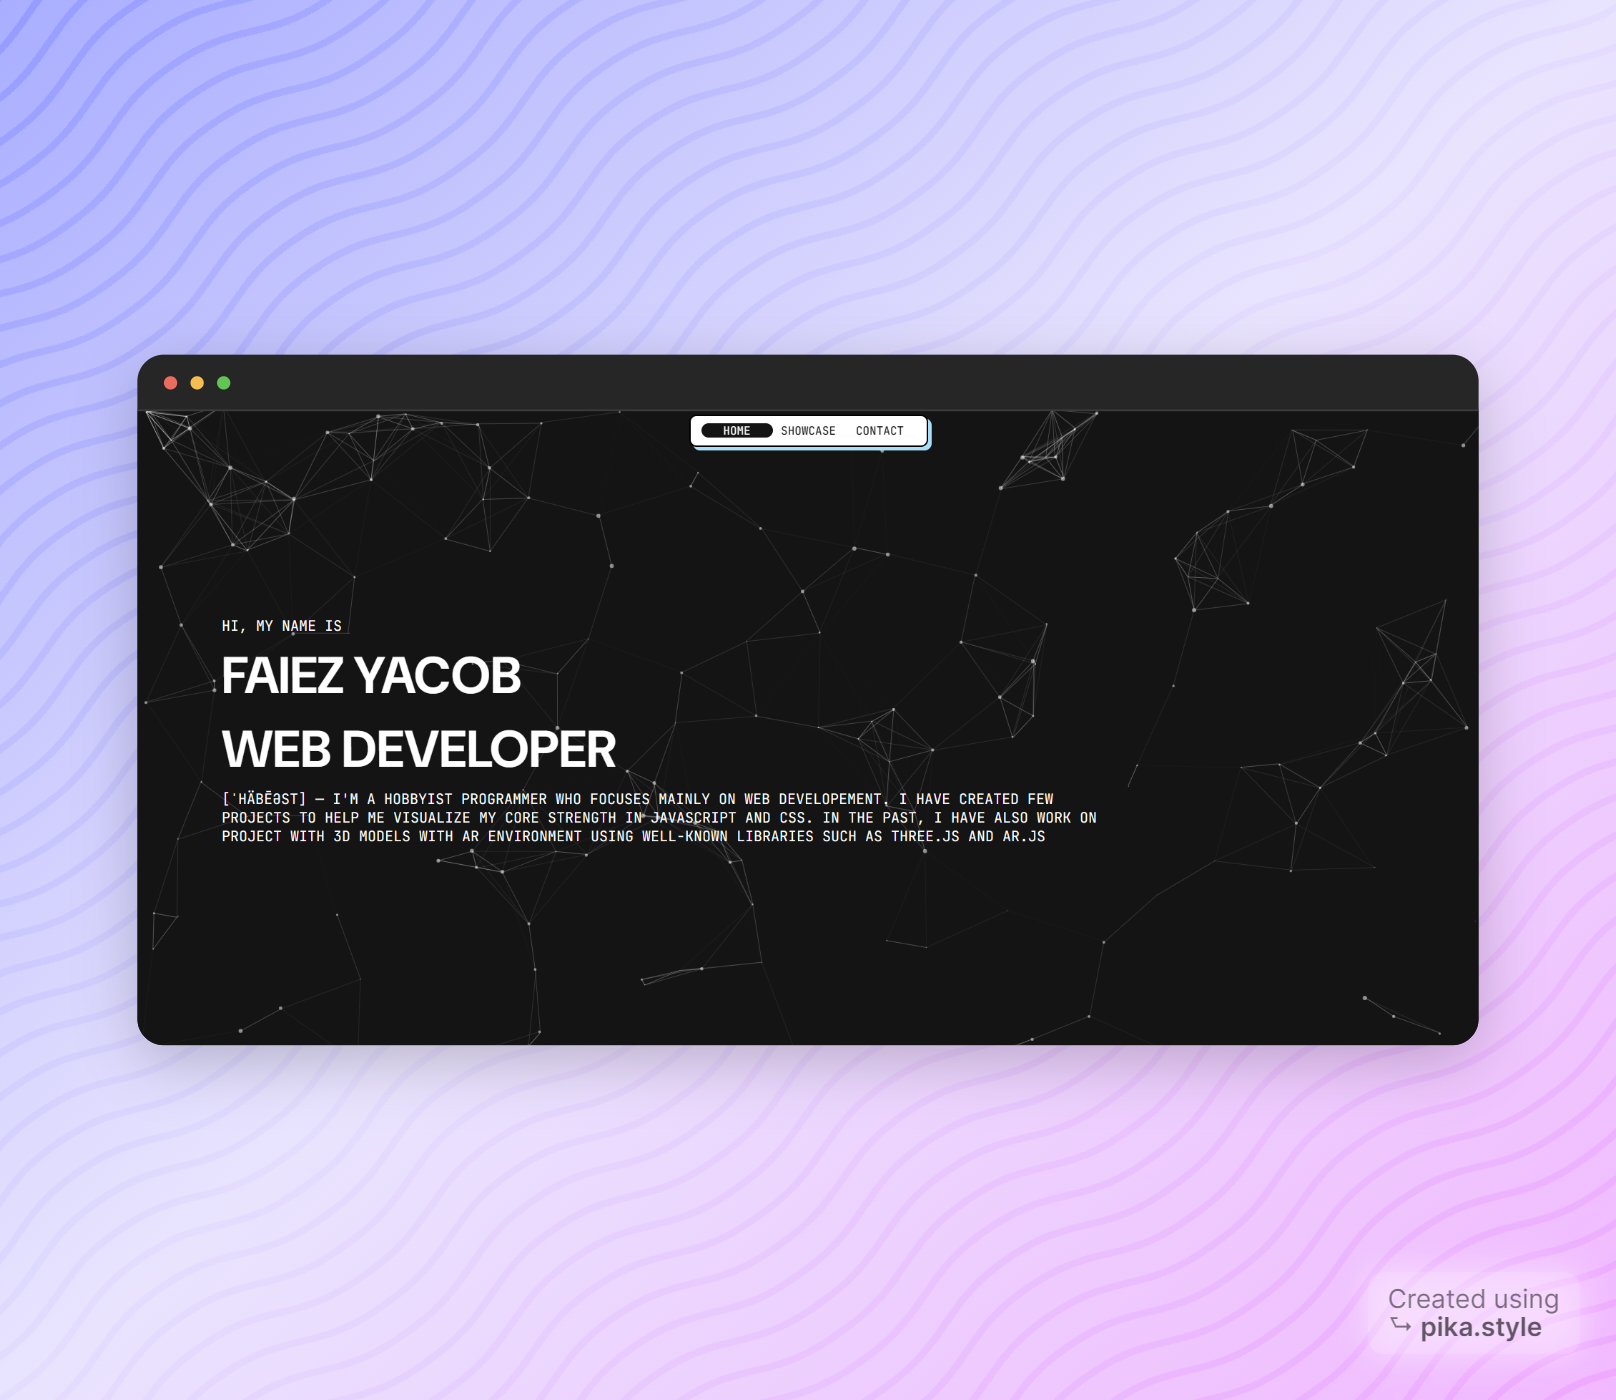
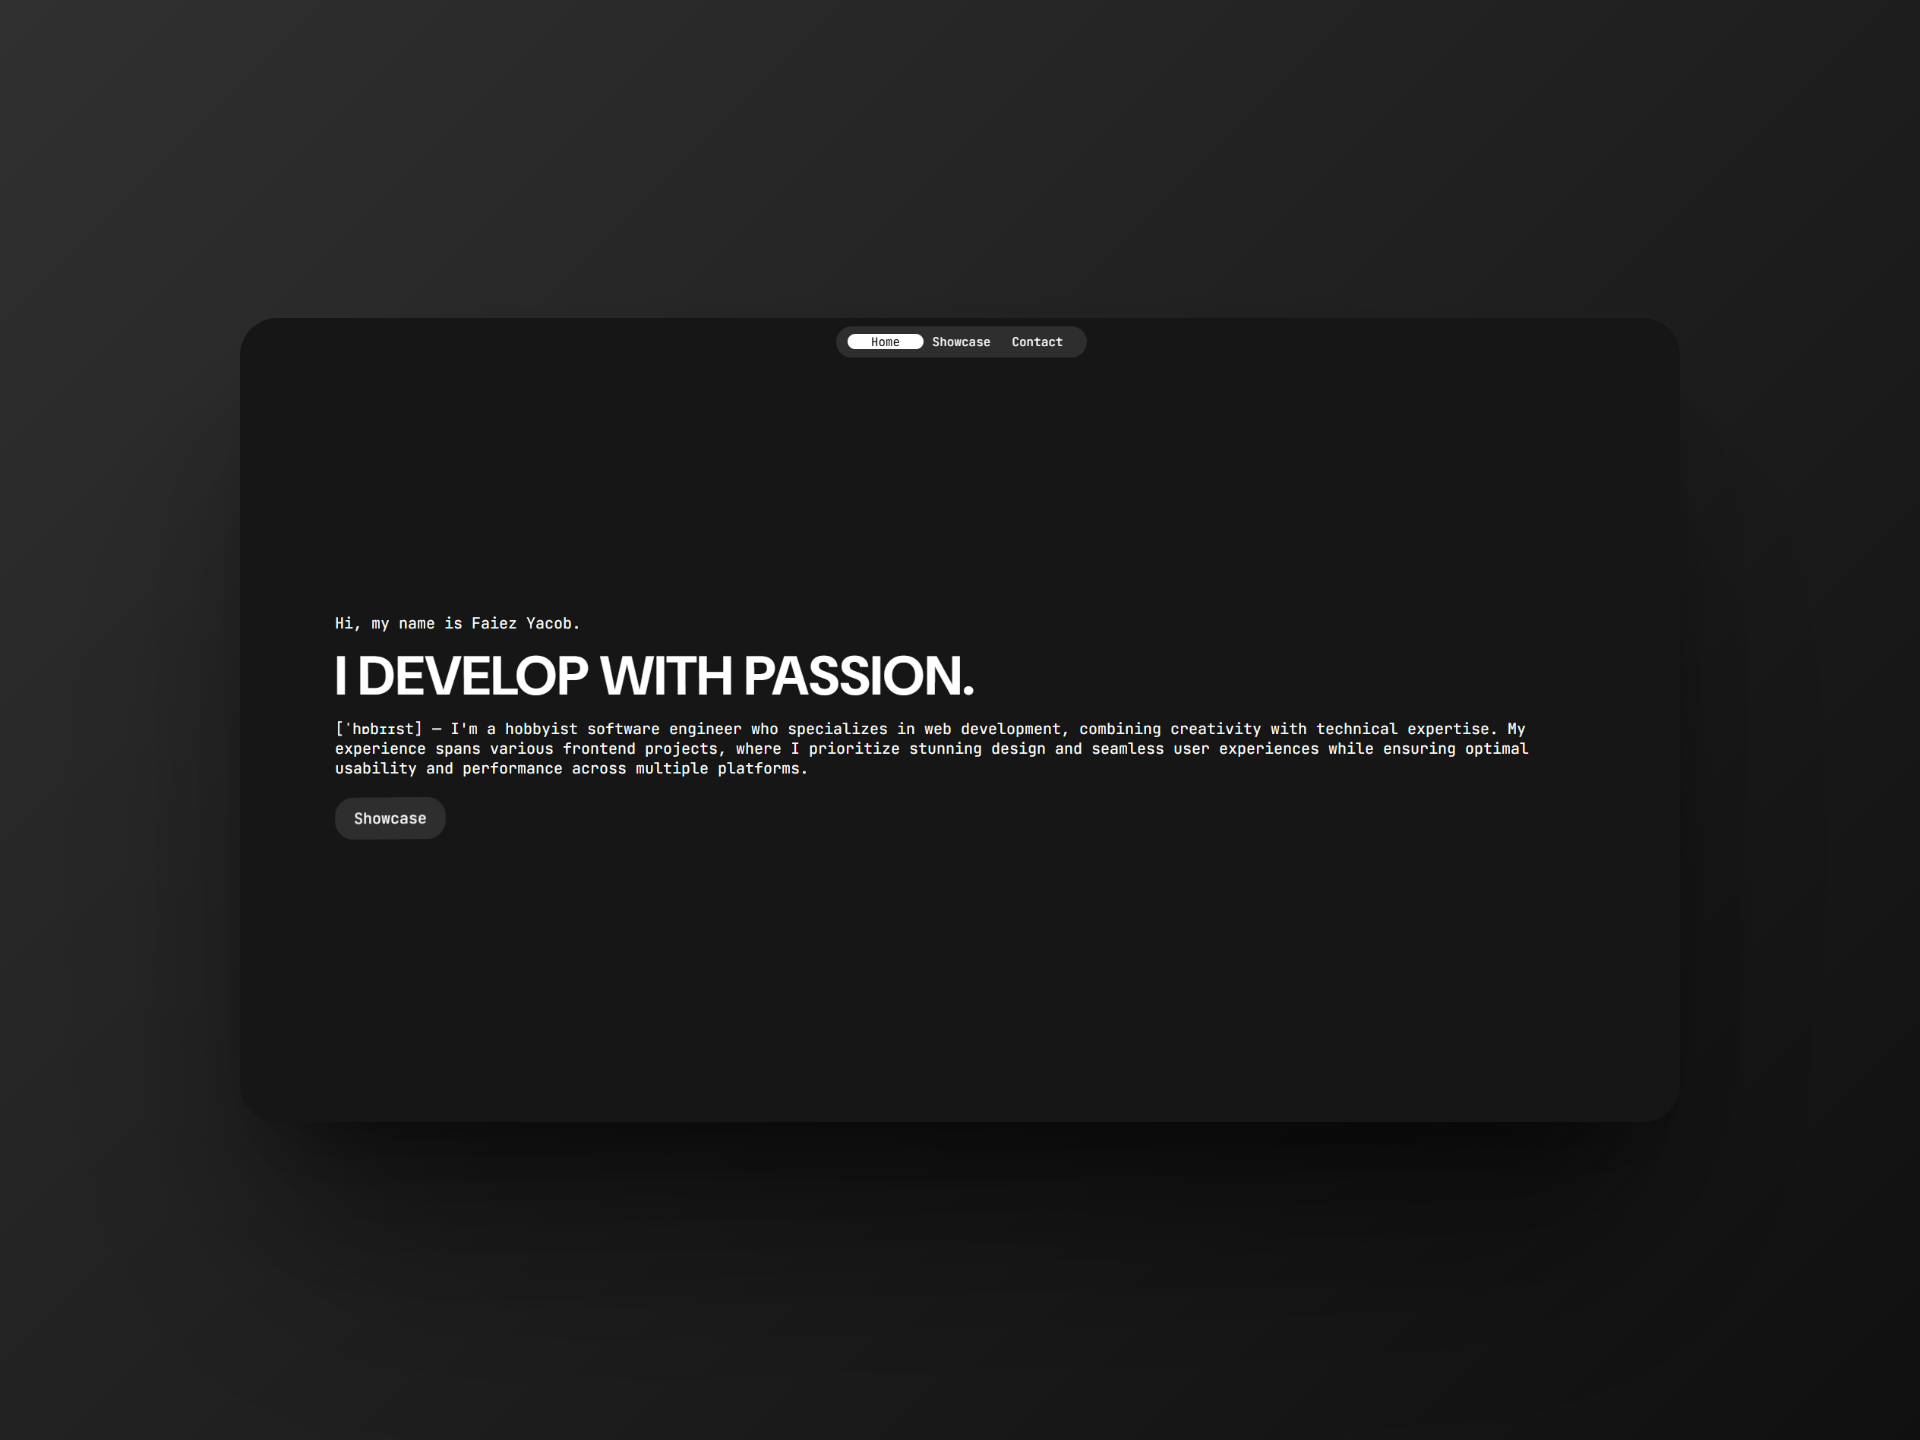
Update design to frosted glass

diff --git a/css/main.css b/css/main.css
@@ -2,14 +2,11 @@
 @import url('https://fonts.googleapis.com/css2?family=DM+Sans:ital,opsz,wght@0,9..40,100;0,9..40,200;0,9..40,300;0,9..40,400;0,9..40,500;0,9..40,600;0,9..40,700;0,9..40,800;0,9..40,900;0,9..40,1000;1,9..40,100;1,9..40,200;1,9..40,300;1,9..40,400;1,9..40,500;1,9..40,600;1,9..40,700;1,9..40,800;1,9..40,900;1,9..40,1000&family=Roboto:wght@400;500;700&display=swap');
 
 :root {
-    --pastel__purple: #DFCEF0;
-    --blue__pastel: #A9DEF9;
-    --dark__color: #404040;
-    --darker__color: #141414;
-    --primary__color: var(--darker__color);
-    
-    --border__radius: 10px;
-    --box__shadow: 5px 5px 0 var(--blue__pastel);
+    --primary__color: #161616;
+    --frosted__white__color: rgba(255, 255, 255, 0.1);
+
+    --backdrop__filter: blur(15px);
+    --border__radius: 25px;
 }
 
 *,
@@ -26,7 +23,7 @@
 }
 
 a {
-    color: #000;
+    color: #fff;
     text-decoration: none;
 }
 
@@ -38,9 +35,6 @@ img {
     transition: scale .5s ease-in-out;
     width: 100%;
 }
-img:hover {
-    scale: 1.05;
-}
 
 p {
     color: #fff;
@@ -48,9 +42,9 @@ p {
 }
 
 span {
-    background-color: var(--primary__color);
+    background-color: #fff;
     border-radius: var(--border__radius);
-    color: #fff;
+    color: var(--primary__color);
     padding: 0 25px;
 }
 
@@ -99,10 +93,9 @@ body {
 }
 
 .navigation__container {
-    background: #fff;
-    border: 2px solid #000;
+    background: var(--frosted__white__color);
+    backdrop-filter: var(--backdrop__filter);
     border-radius: var(--border__radius);
-    box-shadow: var(--box__shadow);
     display: flex;
     justify-content: space-between;
     left: 50%;
@@ -113,12 +106,13 @@ body {
     z-index: 2;
 }
 .navigation__container .navigation__list {
+    color: #fff;
     text-align: center;
     transition: all .5s ease-in-out;
     width: 100px;
 }
 .navigation__container .navigation__slider {
-    background: var(--primary__color);
+    background: #fff;
     border-radius: 10px;
     height: 20px;
     left: 15px;
@@ -139,7 +133,7 @@ body {
 .navigation__container .navigation__list.active,
 .navigation__container .navigation__list.active,
 .navigation__container .navigation__list.active {
-    color: #fff;
+    color: #000;
 }
 
 .about__container {
@@ -150,6 +144,19 @@ body {
     justify-content: center;
     margin-left: auto;
     margin-right: auto;
+    user-select: none;
+}
+
+.jump__showcase {
+    background-color: var(--frosted__white__color);
+    backdrop-filter: var(--backdrop__filter);
+    border-radius: var(--border__radius);
+    color: #fff;
+    cursor: pointer;
+    display: block;
+    margin-top: 25px;
+    padding: 15px 25px;
+    width: fit-content;
 }
 
 .particles__container {
@@ -158,10 +165,12 @@ body {
     position: absolute;
     top: 0;
     width: 100%;
+    z-index: -1;
 }
 
 .showcase__container {
-    background-color: var(--primary__color);
+    background: url('/img/showcase-bg.jpg') no-repeat center center;
+    background-size: cover;
     display: grid;
     grid-column-gap: 1.6rem;
     grid-row-gap: 1.6rem;
@@ -169,6 +178,7 @@ body {
     grid-template-rows: .6fr auto;
     grid-auto-columns: 1fr;
     padding: 6rem 0rem;
+    perspective: 1000px;
     height: unset;
 }
 
@@ -177,13 +187,14 @@ body {
     display: flex;
     flex-wrap: wrap;
     justify-content: center;
+    transform-style: preserve-3d;
 }
 
 .showcase__list {
-    background-color: #fff;
-    box-shadow: var(--box__shadow);
-    border: 2px solid var(--primary__color);
+    background-color: var(--frosted__white__color);
+    backdrop-filter: var(--backdrop__filter);
     border-radius: var(--border__radius);
+    backface-visibility: hidden;
     display: flex;
     flex-direction: column;
     margin-left: 10px;
@@ -196,9 +207,6 @@ body {
     max-height: 250px;
     height: 100%;
     object-fit: cover;
-}
-.showcase__list p {
-    color: var(--primary__color);
 }
 
 .showcase__content {
@@ -216,11 +224,14 @@ body {
 
 .showcase__stack {
     display: flex;
+    flex-wrap: wrap;
     padding-bottom: 10px;
 }
 .showcase__stack span {
     display: block;
     margin-right: 5px;
+    margin-bottom: 5px;
+    padding: 0 10px;
     width: fit-content;
 }
 
@@ -270,7 +281,7 @@ body {
     }
 
     .about__container .content__wrapper {
-        padding-top: 3.5rem;
+        padding-top: 1.5rem;
         max-width: unset;
     }
 

diff --git a/index.html b/index.html
@@ -23,11 +23,12 @@
 		<div class="navigation__slider"></div>
 	</div>
 	<section id="about__container" class="about__container">
-		<div class="content__wrapper">
+		<div id="content__wrapper" class="content__wrapper">
 			<p class="description__text">Hi, my name is Faiez Yacob.</p>
 			<p class="header__large text__bold">I DEVELOP WITH PASSION.</p>
-			<p class="description__text">[ˈhäbēəst] — I'm a hobbyist software engineer who specializes in web development, combining creativity with technical expertise. My experience spans various frontend projects, where I prioritize stunning design and seamless user experiences while ensuring optimal usability and performance across multiple platforms.
+			<p class="description__text">[ˈhɒbɪɪst] — I'm a hobbyist software engineer specializing in web development, focused on creating visually stunning, high-performing frontends with seamless user experiences across platforms.
 			</p>
+			<a id="jump__showcase" href="#showcase__container" class="description__text jump__showcase">Showcase</a>
 		</div>
 		<div id="particles__container" class="particles__container"></div>
 	</section>

diff --git a/js/showcase.js b/js/showcase.js
@@ -1,16 +1,16 @@
 const showcase = [
     {
         title: 'Portfolio',
-        description: 'This website is my portfolio, where I showcase my projects as a web developer',
+        description: 'This website is my portfolio, where I showcase my projects as a software engineer',
         thumbnail: 'img/showcase-mockup.png',
         link: '/',
-        stack: ['css', 'javascript']
+        stack: ['html', 'css', 'javascript']
     },
     {
         title: 'Todo list app',
         description: 'A simple web application that allows users to create and manage their to-do lists',
         thumbnail: 'img/todo-list-mockup.png',
         link: '/showcase/todo-list/',
-        stack: ['css', 'javascript']
+        stack: ['html', 'css', 'javascript']
     }
 ]

diff --git a/js/main.js b/js/main.js
@@ -1,6 +1,8 @@
 window.addEventListener('load', onLoad);
 
 function onLoad() {
+	let showcases = null;
+
 	initClass_();
 
 	function initClass_() {
@@ -8,7 +10,7 @@ function onLoad() {
 		initScrollSpy_();
 		initParticle_();
 		onScroll_();
-		bindEvents_();
+		bindEvents_();		
 	}
 
 	function bindEvents_() {
